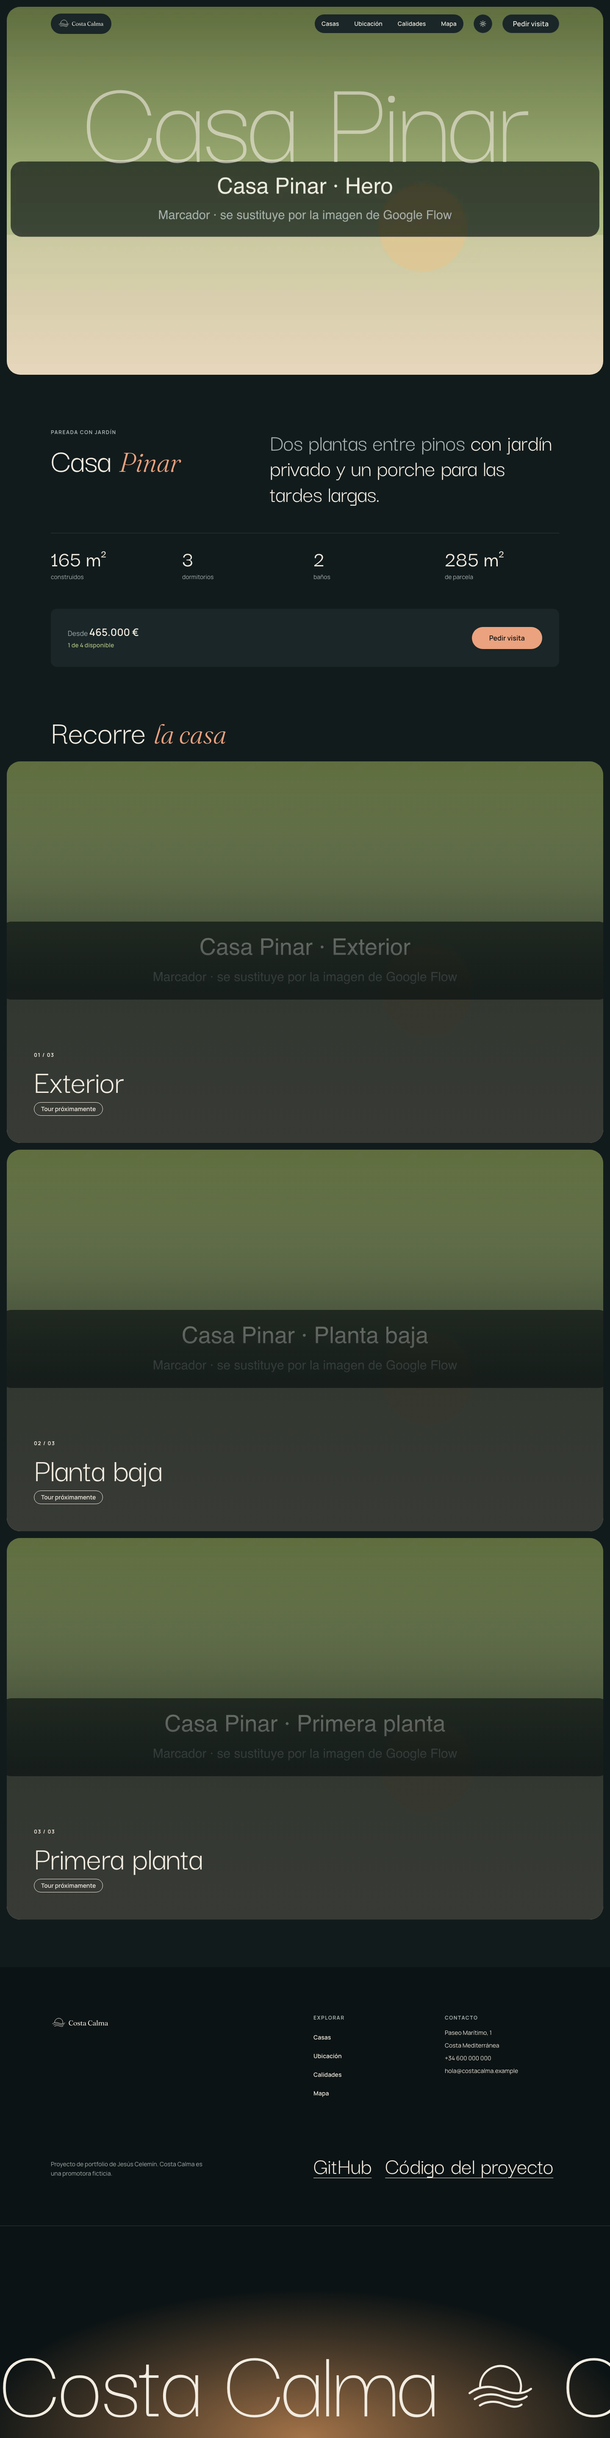
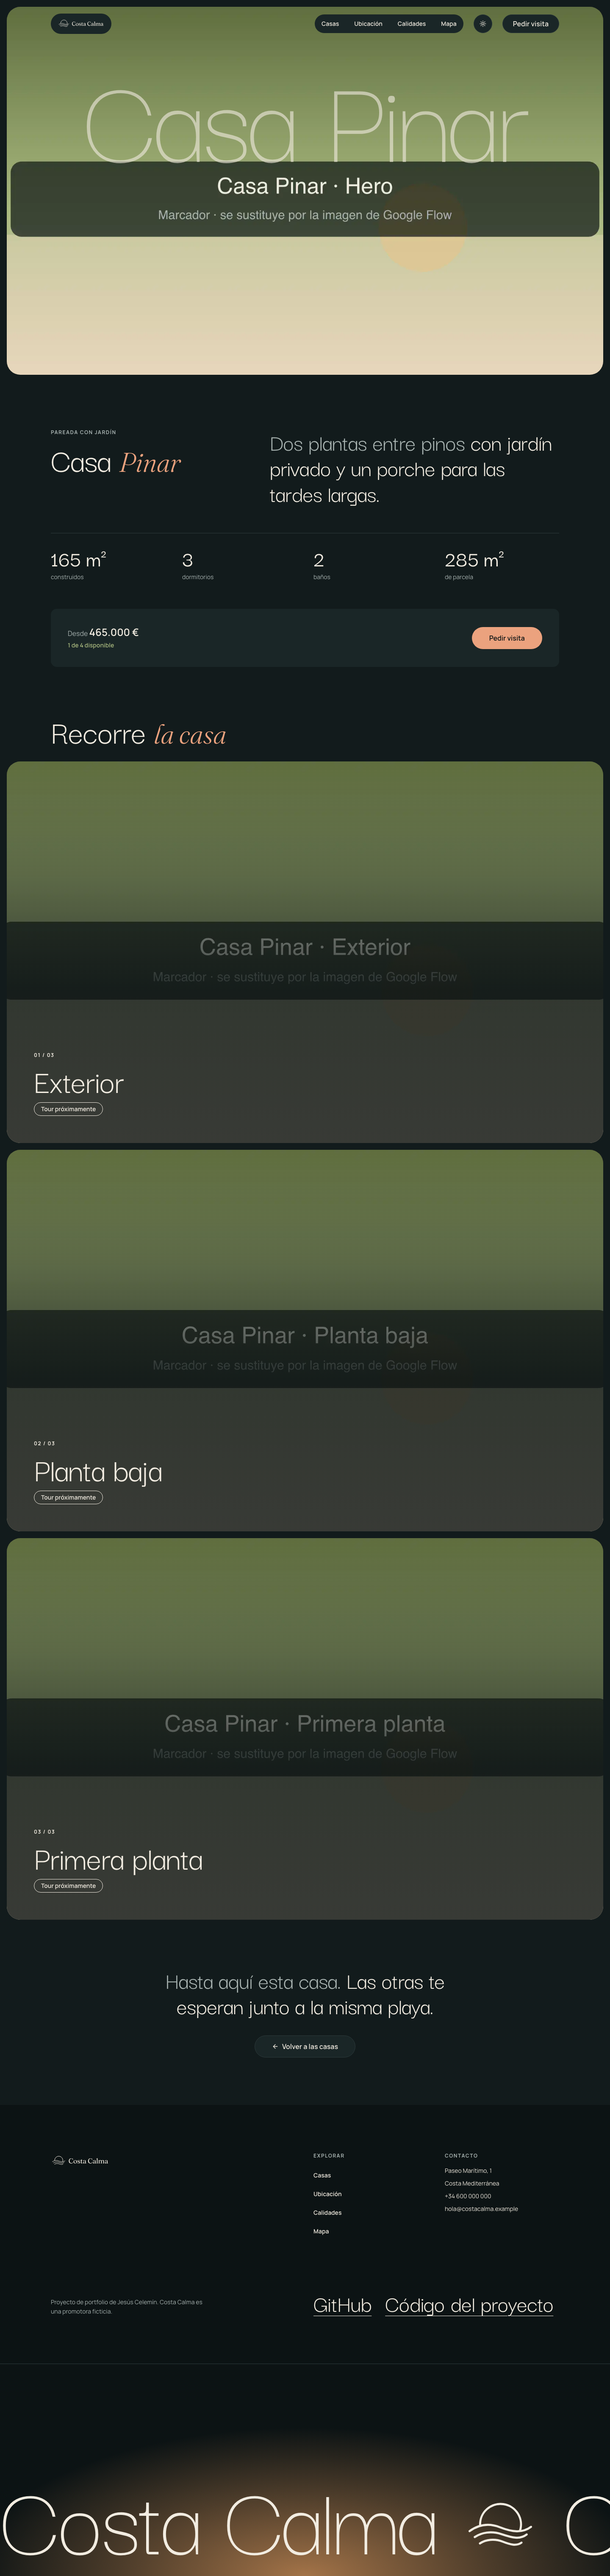
docs: ADR 0005 consequences, and captures of the morph a fifth of the way, there and back, on desktop (#25)

diff --git a/docs/adr/0005-view-transitions-shared-transition.md b/docs/adr/0005-view-transitions-shared-transition.md
@@ -1,3 +1,11 @@
 # Transición compartida con `<ViewTransition>` de React, no con Framer Motion
 
 La imagen de la tarjeta de tipología se transforma en el hero de `/casas/[slug]` con `<ViewTransition>` de React 19 y la View Transitions API del navegador, que Next.js activa en la navegación del App Router. El CLAUDE.md preveía Framer Motion, pero su `layoutId` solo anima entre elementos que conviven en el mismo árbol, y al navegar entre rutas la landing se desmonta: haría falta mantener la tarjeta montada en un layout común o simular la navegación. `<ViewTransition>` captura el estado antes y después de la navegación, también funciona con el botón «atrás» y no añade dependencias. Sin soporte del navegador o con `prefers-reduced-motion`, la navegación queda en un fundido. Framer Motion no se instala mientras no haga falta para otra cosa.
+
+## Consecuencias (#25)
+
+- **El hero vive en el layout de `/casas/[slug]`**, por encima del `loading.tsx`. La transformación solo ocurre si el hero se pinta en el mismo commit que la navegación; dentro de la página, la pantalla de carga se pintaba antes, aunque la casa estuviera precargada, y la pareja tarjeta → hero no llegaba a formarse. La página empieza con un marcador en lo alto del documento para que Next, que desplaza la página a la vista al navegar, no salte el hero.
+- **La tarjeta precarga la casa entera** (`prefetch` en su enlace): con Partial Prefetching, la precarga por defecto solo trae el armazón de la ruta.
+- **«Atrás» y «Adelante» pasan por `TraversalGate`.** React pinta un `popstate` de forma síncrona para que el navegador restaure el scroll, y un render síncrono nunca lanza una transición. Un script en línea, que se ejecuta antes que el router, retiene el `popstate` que cambia de página y lo repite en otra tarea, donde React lo trata como una transición normal; el scroll de cada entrada del historial lo guarda la propia web, porque el navegador lo guarda cuando la página ya ha cambiado, recortado a la altura de la nueva.
+- **«Volver a las casas»** retrocede en el historial si el visitante eligió la casa en la selección durante esta carga de página; si no (enlace directo, recarga), navega a `/#tipologias`.
+- **Solo un build de producción precarga enlaces**, así que la transformación de ida solo se prueba con `npm run test:e2e:prod`; `npm run test:e2e`, contra el servidor de desarrollo, prueba el resto.
